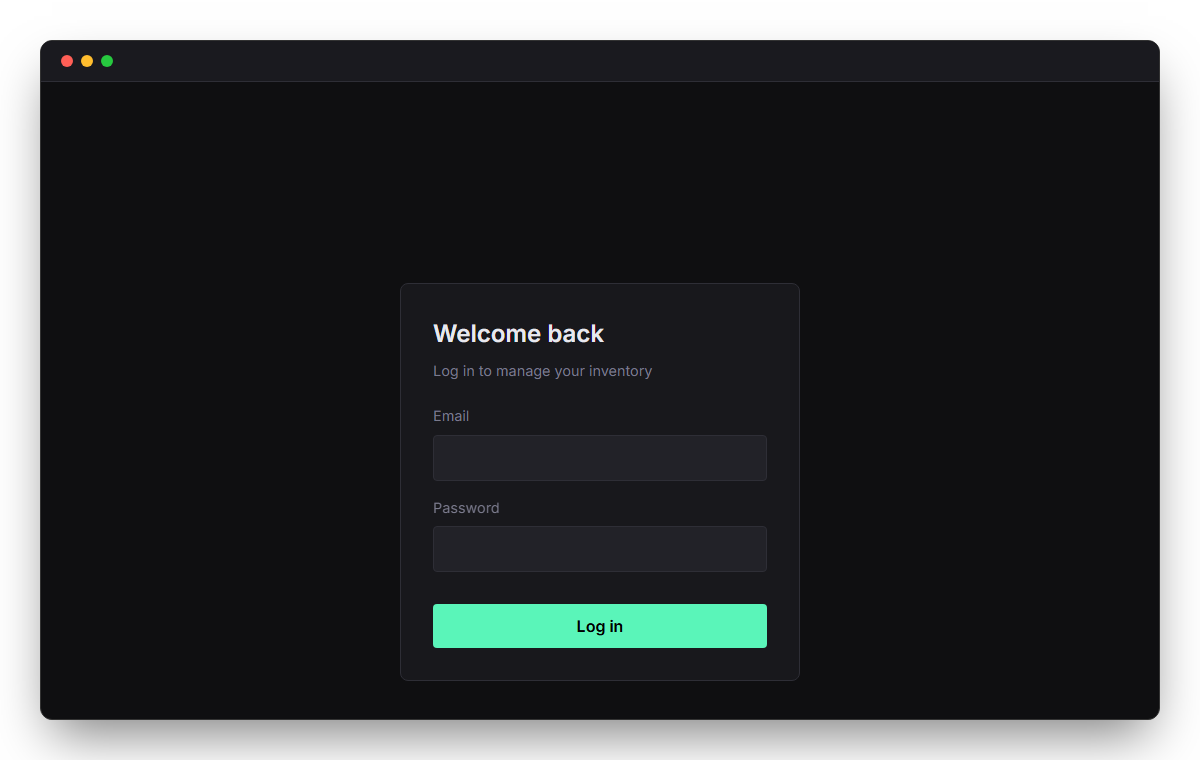
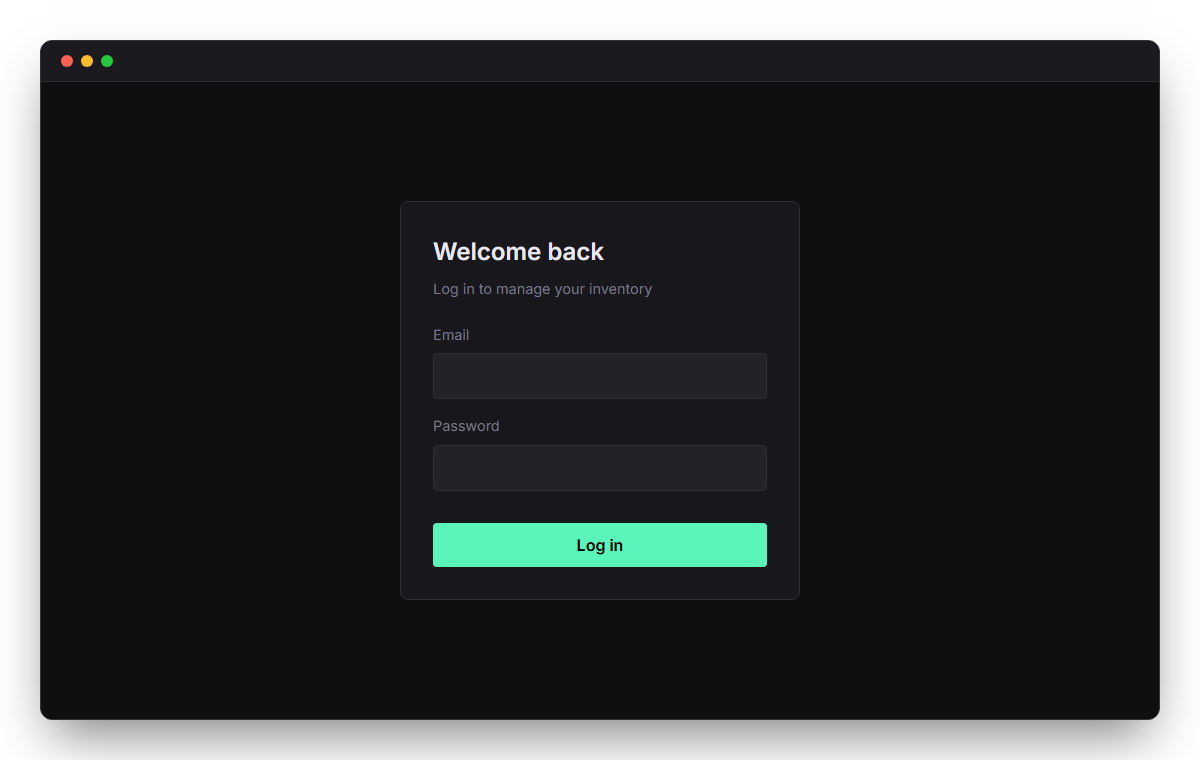
Fix login page centering in screenshots

diff --git a/capture_screenshots.py b/capture_screenshots.py
@@ -43,11 +43,24 @@ inject_mac_ui = """() => {
     
     const appContainer = document.createElement('div');
     appContainer.style.flex = '1';
-    appContainer.style.overflow = 'auto';
+    appContainer.style.overflow = 'hidden'; // prevent scrolling if not needed
     appContainer.style.position = 'relative';
+    appContainer.style.display = 'flex';
+    appContainer.style.flexDirection = 'column';
+
+    // Override any 100vh constraints in the app
+    const style = document.createElement('style');
+    style.innerHTML = '.page-center { min-height: 100% !important; height: 100% !important; }';
+    document.head.appendChild(style);
 
     app.parentNode.insertBefore(captureArea, app);
     appContainer.appendChild(app);
+    
+    // Fix the 100vh issue so it centers perfectly in the new window
+    app.style.height = '100%';
+    app.style.minHeight = '100%';
+    app.style.width = '100%';
+
     macWindow.appendChild(appContainer);
     captureArea.appendChild(macWindow);
     
